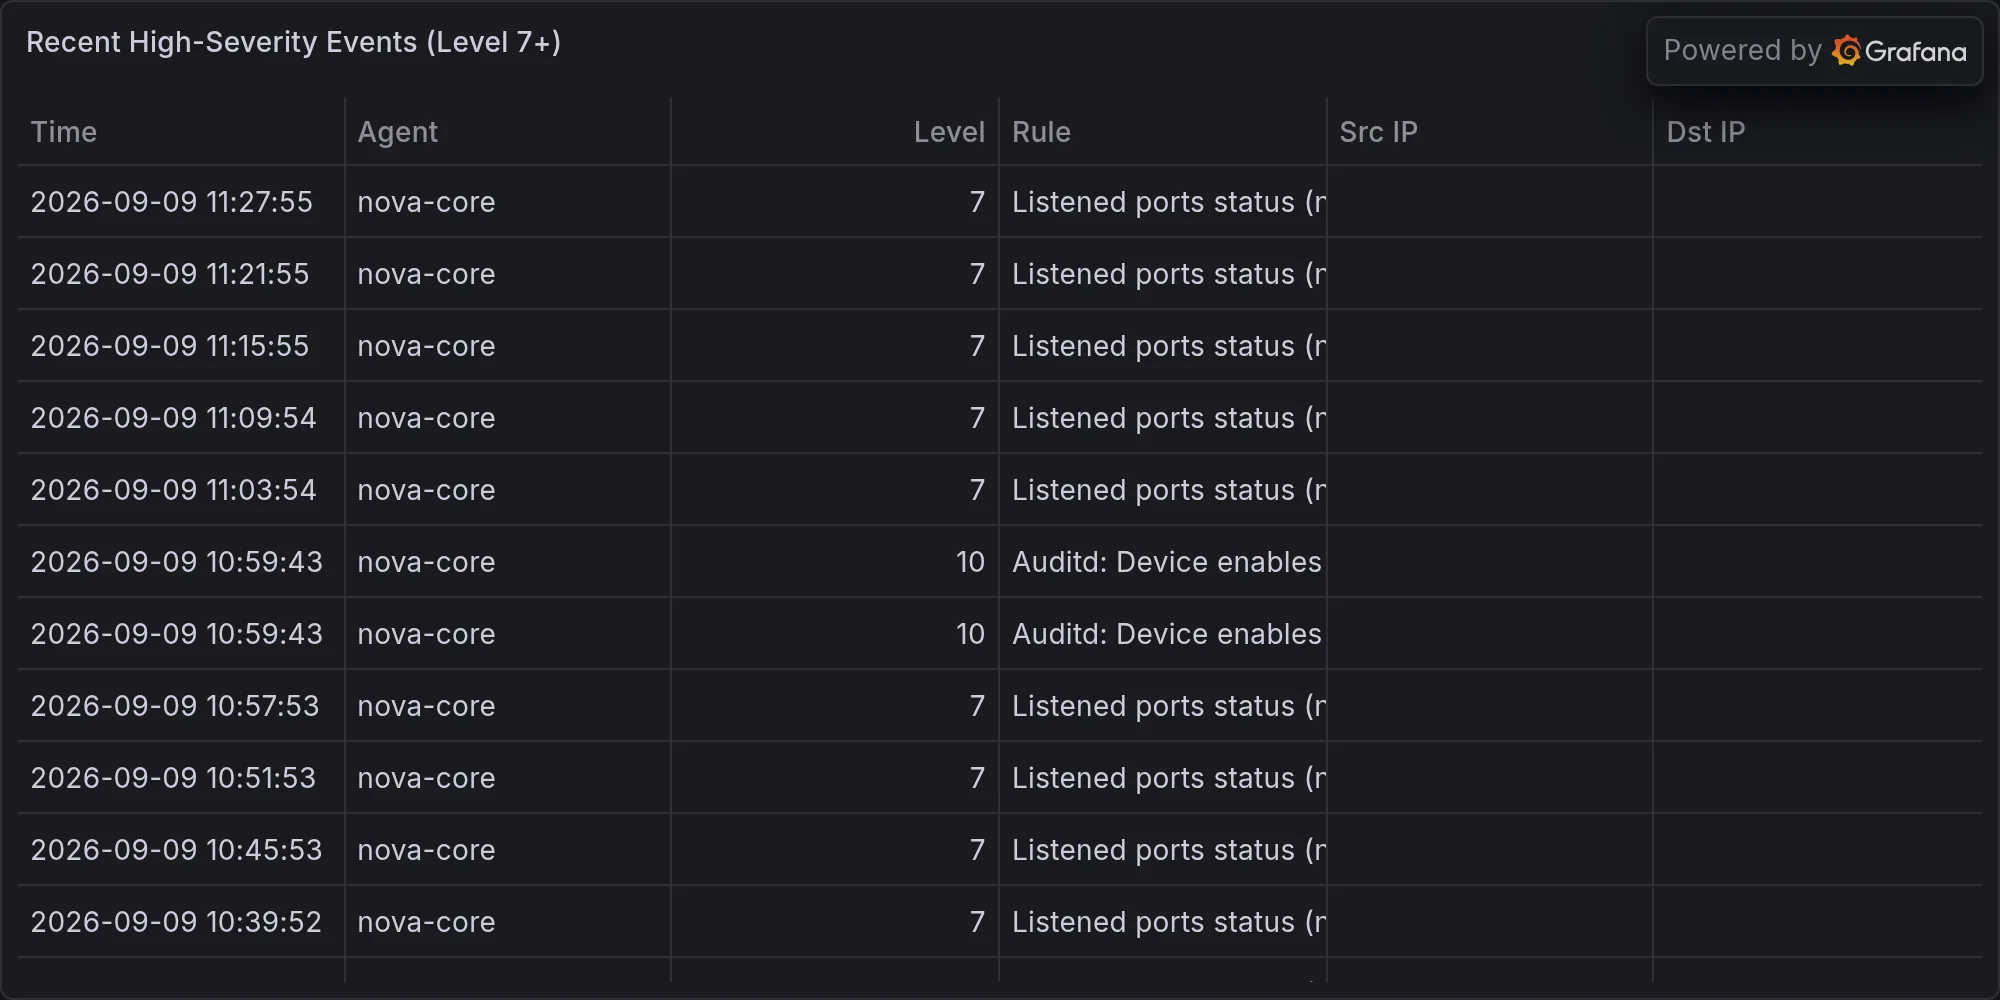
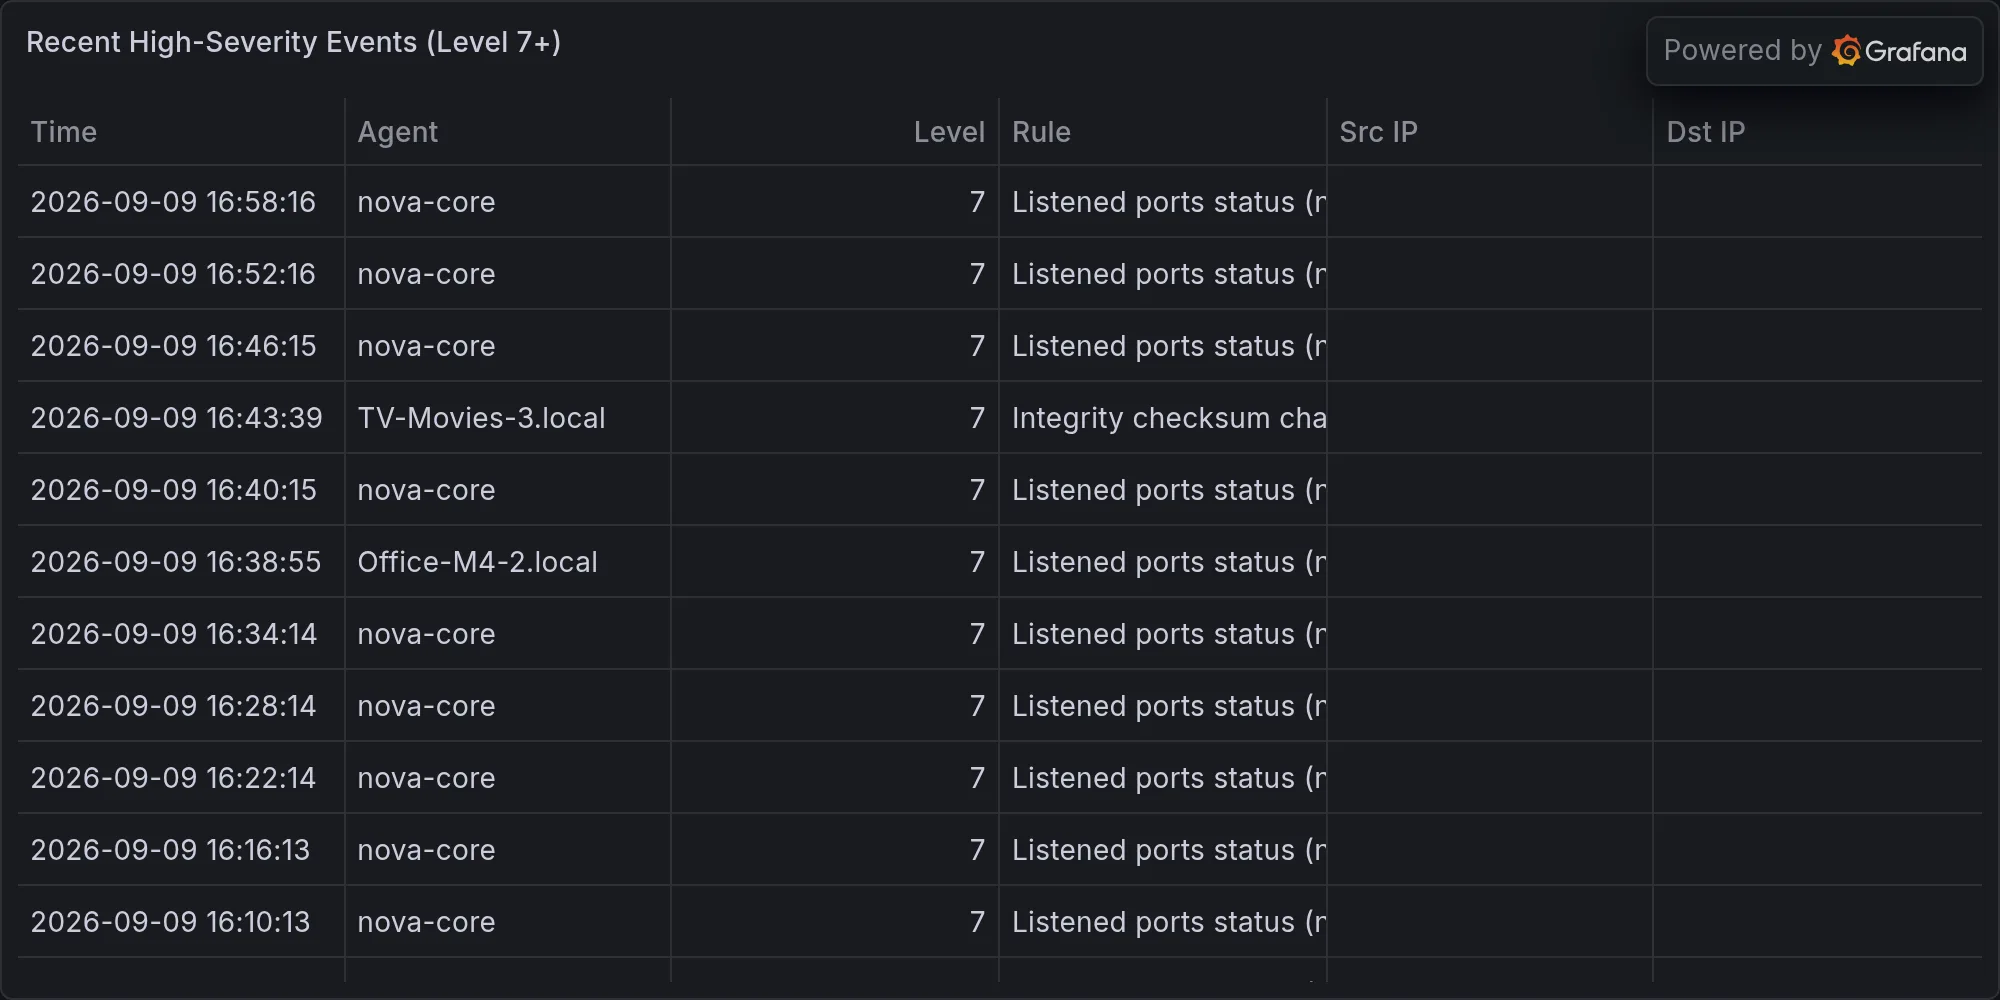
security: 2026-09-09 — **DEVELOPING — Chinese Espionage Groups Exploit Ch

diff --git a/content/operations/2026-09-09-developing-chinese-espionage-groups-exploit-chained-zero-day.md b/content/operations/2026-09-09-developing-chinese-espionage-groups-exploit-chained-zero-day.md
@@ -1,0 +1,54 @@
+---
+title: "🛡 **DEVELOPING — Chinese Espionage Groups Exploit Chained Zero-Days; Scope and Targets Unclear**"
+date: 2026-09-09T17:01:09-07:00
+draft: false
+categories: ["operations"]
+tags: ["breaking-alert", "cyberscoop-chinese-espionage-groups-swar", "security"]
+description: "BREAKING: CyberScoop: Chinese espionage groups swarm to exploit triple-link chain of zero-days"
+cover:
+  image: "/images/operations/2026-09-09-developing-chinese-espionage-groups-exploit-chained-zero-day.webp"
+  alt: "**DEVELOPING — Chinese Espionage Groups Exploit Chained Zero-Days; Scope and Targets Unclear**"
+  relative: false
+---
+
+*Published Wednesday, September 09, 2026 at 05:01 PM PT*
+
+![**DEVELOPING — Chinese Espionage Groups Exploit Chained Zero-Days; Scope and Targets Unclear**](/images/operations/2026-09-09-developing-chinese-espionage-groups-exploit-chained-zero-day.webp)
+
+**BLUF:** Multiple China-aligned threat groups are actively exploiting a chain of previously unknown zero-day vulnerabilities. Proofpoint reports ongoing activity targeting unspecified organizations, with expectation of widened exploitation. Specific CVEs, products, and targets remain unconfirmed pending additional threat intelligence.
+
+**DETAILS**
+
+- Multiple China-aligned espionage groups have begun rapid exploitation of a "triple-link chain" of zero-day vulnerabilities; temporal scope of exploitation activity unknown.
+- Proofpoint has identified the activity and assessed it as ongoing with high probability of expansion to additional threat actors and targets.
+- Organizations targeted are described only as "various" — specific sectors, geographies, or entity types not yet disclosed.
+- Technical nature of the vulnerability chain (interconnected exploits, privilege escalation sequence, or supply-chain link) is not detailed in available reporting.
+- No CVE identifiers, affected product names, or vendor mitigation guidance available as of publication.
+
+**IMPACT**
+
+Scope remains undefined. Historical pattern of similar Chinese espionage operations (Roundcube exploit chains against universities, Zimbra exploits against Western organizations) suggests potential targeting of:
+- Higher education institutions
+- Government and military networks
+- Technology and critical infrastructure sectors
+- International organizations and think tanks
+
+**RECOMMENDED ACTIONS (IMMEDIATE)**
+
+1. **Monitor vendor advisories** — watch CISA, major OS vendors (Microsoft, Apple, Linux), and enterprise software providers (Zimbra, Roundcube, etc.) for zero-day disclosures and patches over the next 48–72 hours.
+2. **Enable logging** — ensure EDR/SIEM is capturing process execution, network connections, and authentication anomalies.
+3. **Alert on known indicators** — flag any Proofpoint threat feed updates or associated Yara rules if released.
+4. **Hold on patching** — do NOT patch blindly until CVEs are public; uncontrolled patching may introduce operational risk before proper staging.
+
+**SOURCES**
+
+- CyberScoop (primary; reporting date unclear)
+- Proofpoint (threat intelligence; activity assessment)
+
+**CONFIDENCE:** LOW — Alert status is "DEVELOPING." Core facts (Chinese APT activity, ongoing exploitation, chain of zero-days) are confirmed by credible source, but tactical details (CVE IDs, products, targets, remediation) are absent. Expect updates when CISA or vendor advisories surface.
+
+---
+
+**Recent high-severity events at publish time:**
+
+![Recent high-severity events](/images/operations/2026-09-09-breaking-alert-posture.webp)
